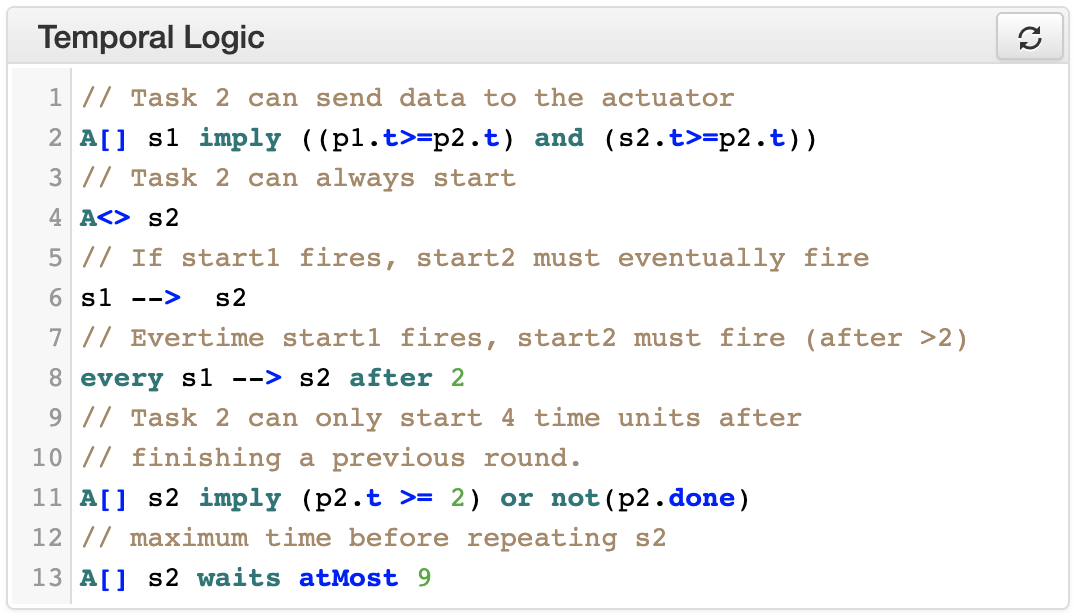
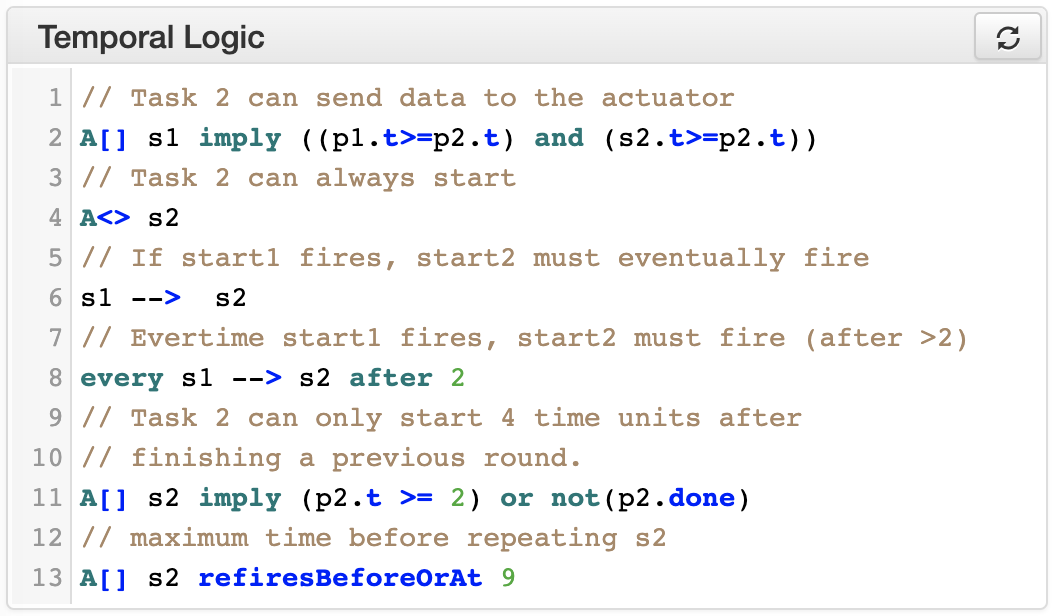
Updated documentation

diff --git a/docs/source/try-it.rst b/docs/source/try-it.rst
@@ -1,14 +1,17 @@
 Using the tools
 ***************
 
-Lightweight vs Server mode
-===========================
+.. |showMore| image:: _static/imgs/showMore.svg
+.. |download| image:: _static/imgs/download.svg
+
+Server vs Lightweight mode
+==========================
 
 .. figure:: _static/imgs/lw-vs-server.png
     :align: center
     :target: _static/imgs/lw-vs-server.png
 
-    Lightweight vs Server mode
+    Server (Full Hubs) vs Lightweight mode (LW Hubs)
 
 While the toolset is developed in Scala, the code is compiled both into *JVM*
 binaries that are executed on a **server** (*Full Hubs*), and into **JavaScript** using
@@ -101,9 +104,9 @@ Hub                 Keyword
 
 Newly proposed hubs
 
-======================== ==========================
+======================== ============================================
 Hub                      Keyword
-======================== ==========================
+======================== ============================================
 |drain| Drain            ``drain``
 |merger| Merger          ``merger``
 |xor| Exclusive Router   ``xor``
@@ -113,8 +116,8 @@ Hub                      Keyword
 |fifoF| FIFOFull         ``fifoFull``
 |bbF| BlackBoardFull     ``blackboardFull``
 |timer| Timer            ``timer`` or ``timer(n)``
-                         (*n* a positive integer)
-======================== ==========================
+                         (*n* a positive integer, *0* when omitted)
+======================== ============================================
 
 
 Tasks
@@ -206,7 +209,7 @@ A type system guarantees that composition is correct.
 
 The sequential composition requires that the number of outputs match the number of inputs in the sequence.
 
-.. code::
+.. code:: 
 
     dupl ; fifo  * event
 
@@ -214,19 +217,16 @@ This code specifies a ``duplicator`` hub
 where the first output connects to the input of a ``fifo`` hub,
 and the second output connects to the input of an ``event`` hub.
 
-More complex examples are available in the Examples widget `online <http://arcatools.org/hubs>`_
-(see :ref:`examples-widget`).
+More complex examples are available in the :ref:`examples-widget` widget `online <http://arcatools.org/hubs>`_.
 
 Preo syntax is extended as well with integers and booleans expression that can simplify the definition of complex hubs.
 
 
-* `primHub` ``^n`` : `n` hubs of type `primHub`, `n` a positive integer
-* `primHub` ``!`` :  as many `primHub` such that their inputs and outputs connect with correctly with any other hubs that may connect in sequence with *primHub*
-* ...
-
+* `hub` ``^n`` : `n` hubs of type `hub`, `n` a positive integer
+* `hub` ``!`` :  as many `hub` such that their inputs and outputs connect correctly with another hubs
+  that may connect in sequence with *hub*
 
 .. code-block::
-    :linenos:
 
     // for fifo hubs in parallel, composed in sequence with as many merger hubs needed (2 in this case).
     fifo^4 ; merger!
@@ -403,6 +403,7 @@ Currently:
   without delay, and without restrictions imposed by the hub - transitions with this port are single-action transitions
   and have a trivially satisfied guard.
 
+.. _temporal-widget:
 
 Temporal Logic
 --------------
@@ -439,14 +440,12 @@ A valid property consists of a `path formula` `pf` given by the following gramma
       pf ::= A[] sf | E[] sf | A<> sf | E<> sf | sf --> sf | every a --> b [after n]
 
       // state formula
-      sf ::= a | doing a | a.done | a waits wm n
+      sf ::= a | a.doing | a.done
+           | a refiresAfter n | a refiresAfterOrAt n | a refiresBefore n | a refiresBeforeOrAt n |
            | not sf
            | sf and sf | sf imply sf | sf or sf
            | ecc
            | deadlock | nothing
-
-      // waiting mode
-      wm ::= atLeast | atMost | lessThan | moreThan (to change)
 
       // extended clock constraints
       ecc ::= c # n | c - # n | ecc and ecc | a.t # n
@@ -482,14 +481,16 @@ Construct                      Description
 ``every a --> b after n``  Holds if, whenever `a` fires, `b` will fire before `a` fires again,
                            but after 5 or more units of time since `a` fired.
 ``a``                      Holds at the time instance when port `a` fires.
-
-``doing a``                Holds if `a` was the last port to be fired.
-
+``a.doing``                Holds if `a` was the last port to be fired.
 ``a.done``                 Holds if `a` has fired at least once.
-
-``a waits atMost 5``       Holds in states where, if `a` fired,
-                           then it was less than `5` units ago
-...                       ...
+``a refiresAfter n``       Holds in states where, if `a` fired,
+                           then it cannot refire until more than `n` units of time passed.
+``a refiresAfterOrAt n``   Holds in states where, if `a` fired,
+                           then it cannot refire until `n` or more units of time passed.
+``a refiresBefore n``      Holds in states where `a` fires
+                           before less than `n` units of time passed since the beginning or since it last fired.
+``a refiresBeforeOrAt n``  Holds in states where `a` fires
+                           before `n` or less units of time passed since the beginning or since it last fired.
 ``not sf``                 Holds in states where sf is not satisfied
 ``sf1 and sf2``            Holds in states where both ``sf1`` and ``sf2`` are satisfied
 ``sf1 or sf2``             Holds in states where ``sf1`` or ``sf2`` are satisfied
@@ -517,9 +518,6 @@ by either pressing ``shift`` + ``enter`` or by clicking on the load icon on the 
 
 Even when using the lightweight version,
 the widget provides the necessary information to verify each property using Uppaal manually.
-
-.. |showMore| image:: _static/imgs/showMore.svg
-.. |download| image:: _static/imgs/download.svg
 
 After loading the properties, a new box appears showing the results.
 In particular, for each property, the result box shows:
@@ -549,8 +547,17 @@ In particular, for each property, the result box shows:
 Uppaal Model
 ------------
 
-The timed automaton to be imported by Uppaal model checker...
+.. figure:: _static/imgs/widgets/uppaal.png
+    :align: center
+    :scale: 50 %
 
+    Uppaal Model - Uppaal timed automaton model of the hub specified in the `Hub Composer`.
+
+This widget provides the base Uppaal timed automaton model of the hub specified in the `Hub Composer`.
+By base we mean that the model does not have any auxiliary variable or committed states in between states of the original model, as is the case
+with Uppaal models generated in the :ref:`temporal-widget` widget.
+
+The model can be downloaded |download| and imported into the Uppaal model checker for further analysis.
 
 
 
